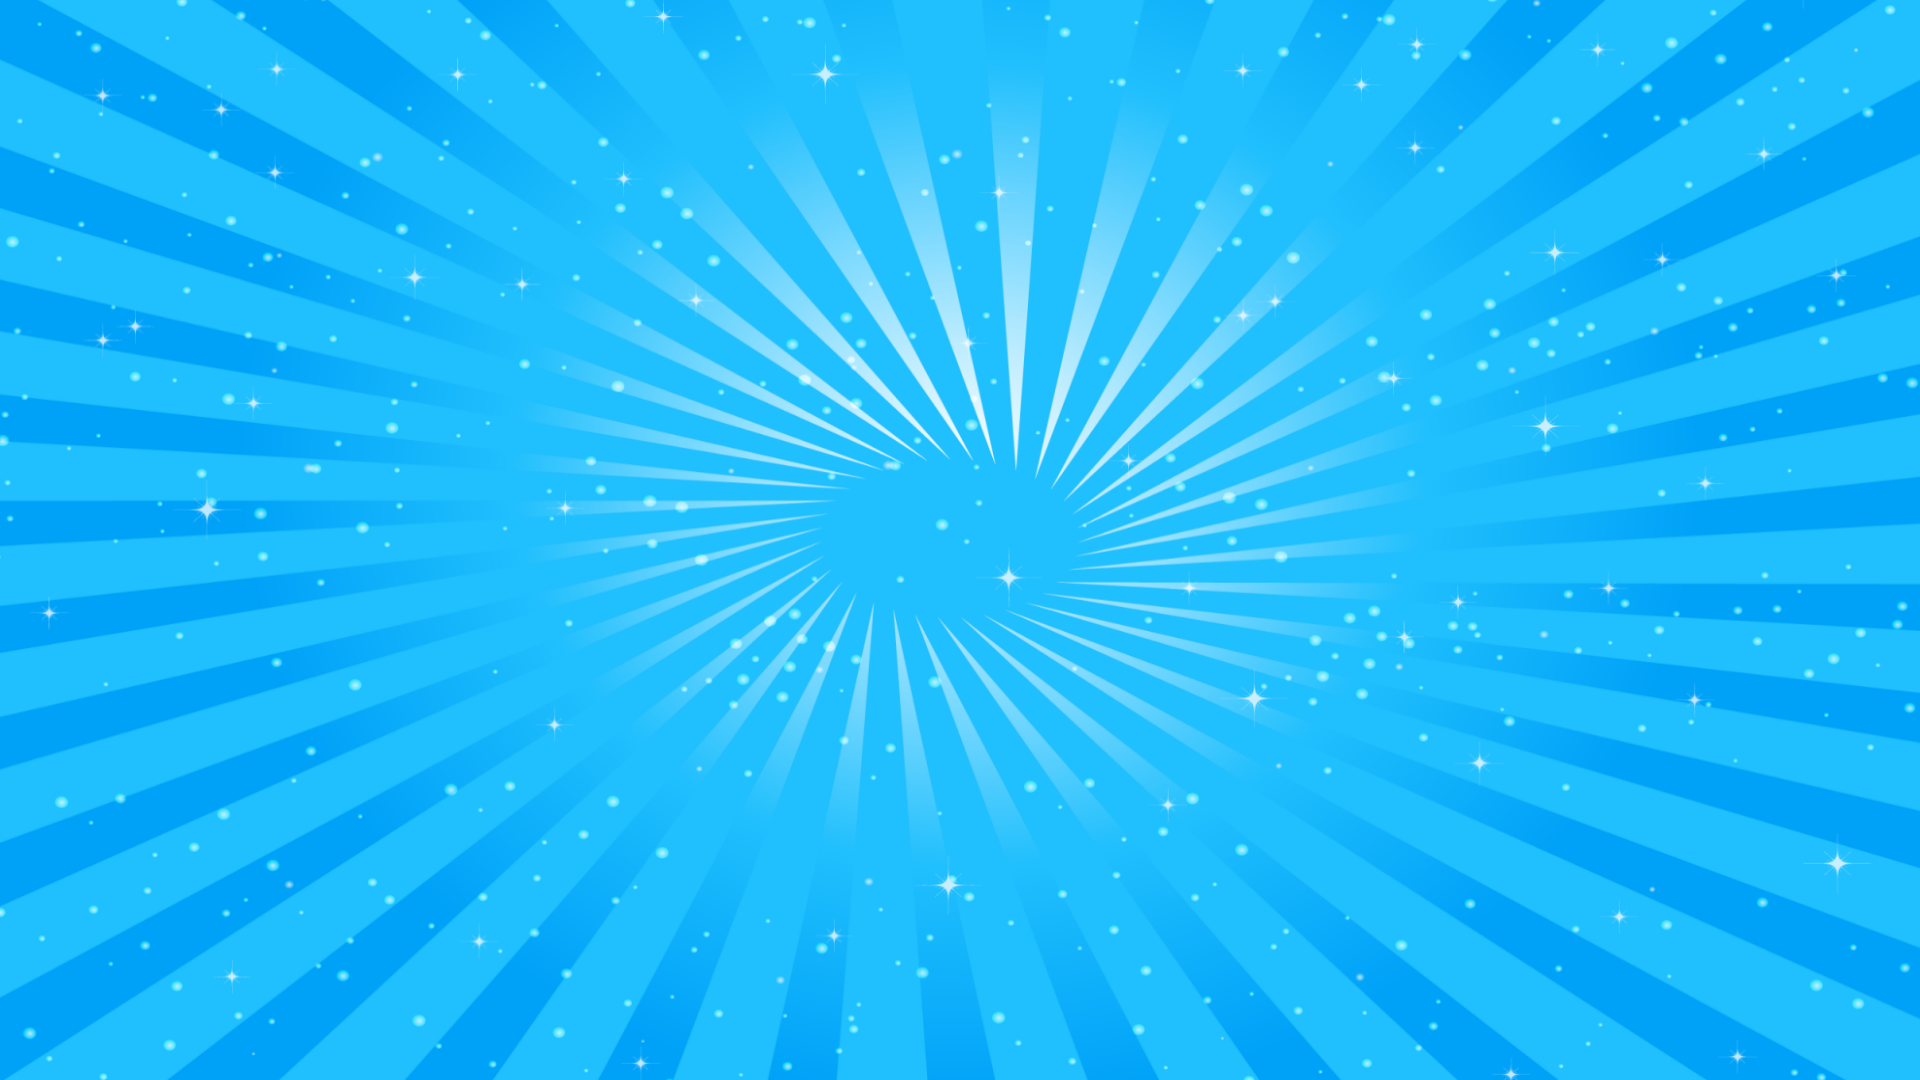
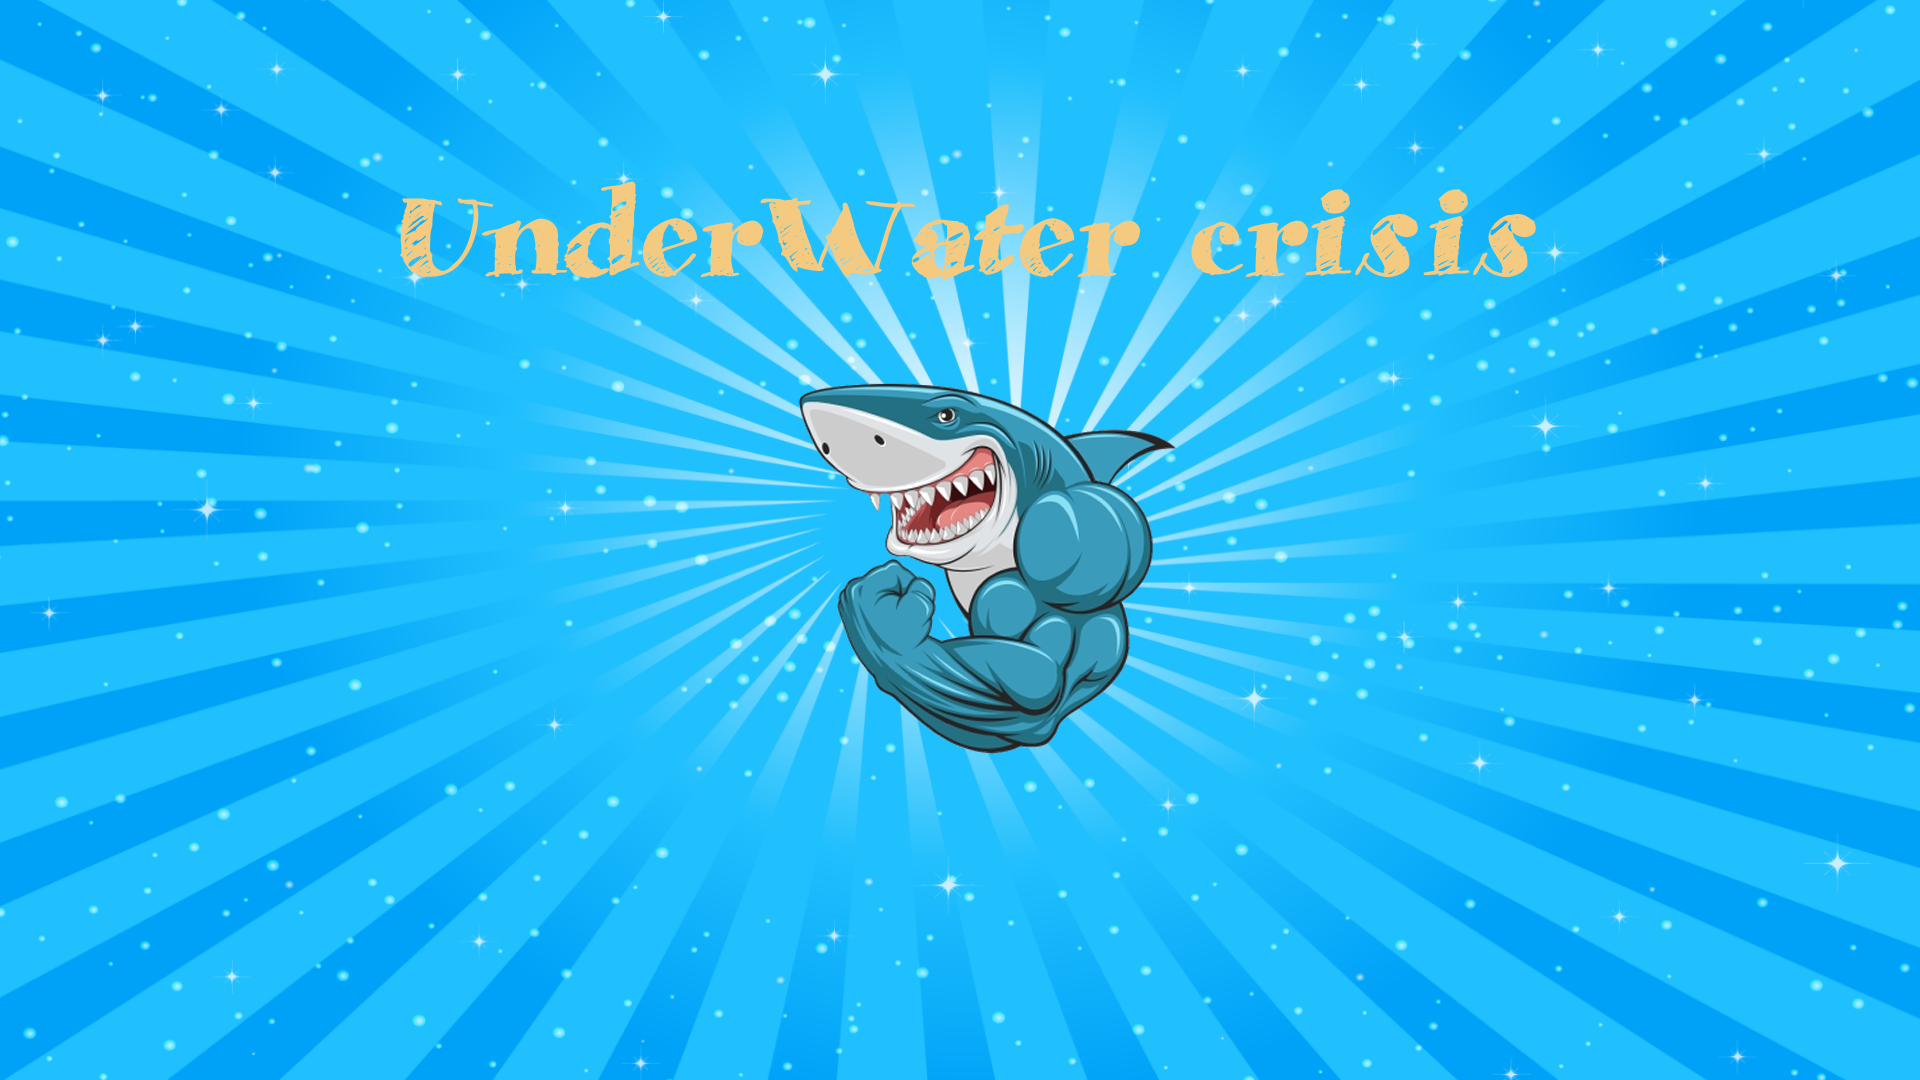
update

Changed region(s): [[0.4062, 0.3361, 0.625, 0.7028], [0.1875, 0.1528, 0.8125, 0.275]]

diff --git a/js/game.js b/js/game.js
@@ -2,7 +2,7 @@ import Player from './player.js';
 
 export default class Game extends Phaser.Scene {
   constructor() {
-    super({ key: 'main' });
+    super({ key: 'playgame'});
   }
   preload() {  
   	this.load.image('background', 'assets/images/background.png');
@@ -12,7 +12,7 @@ export default class Game extends Phaser.Scene {
     this.load.image('pause', 'assets/images/btnpause-sheet0.png');
     this.load.image('sound', 'assets/images/btnsound-sheet1.png');
     //this.load.audio('audio-bounce', ['audio/bounce.ogg', 'audio/bounce.mp3', 'audio/bounce.m4a']);
-    this.load.spritesheet('player', 'assets/images/shark-sheet0.png', {frameWidth: 128,frameHeight: 103});
+    this.load.spritesheet('player', 'assets/images/shark-sheet0.png', {frameWidth: 128,frameHeight: 101});
   }
 
   create() {
@@ -23,23 +23,29 @@ export default class Game extends Phaser.Scene {
     this.add.image(1600, 100, 'pause');
     this.add.image(1800, 100, 'sound');
 
-    //this.player = this.add.sprite(300, 640, 'player');
     this.anims.create({
       key: 'player_normal',
       frames: this.anims.generateFrameNumbers('player', { start: 0, end: 6 }),
       frameRate: 10,
       repeat: -1
     });
-    
+    this.anims.create({
+      key: 'player_attack',
+      frames: this.anims.generateFrameNumbers('player', { start: 7, end: 11 }),
+      frameRate: 10,
+      repeat: -1
+    });
+    this.anims.create({
+      key: 'player_die',
+      frames: this.anims.generateFrameNumbers('player', { start: 12, end: 13 }),
+      frameRate: 10,
+      repeat: -1
+    });
+
     this.player = new Player(this,300, 640);
   }
 
   update(time, delta) {    
-    /**
-     * this.input.keyboard.on("keydown_D", () => {
-      this.player.x += 100;
-      this.anims.play('player_normal',true);
-    });
-     */
+    
   }
 }

diff --git a/js/Menu.js b/js/Menu.js
@@ -1,0 +1,42 @@
+import Game from './Game.js';
+
+export default class Menu extends Phaser.Scene {
+	constructor() {
+	    super({ key: 'menu' });
+	}
+	preload() {  
+	  	this.load.image('preloaderBackground', 'assets/images/loadingbackground-sheet0.png');
+	    this.load.spritesheet('button', 'assets/images/button_sprite_sheet.png',{frameWidth: 265,frameHeight: 98});
+	}
+
+	create() {
+	  	this.add.image(960, 540, 'preloaderBackground');
+	    //this.playButton = this.add.(320, 520, 'button', this.startGame(), this, 2, 1, 0);
+	    this.playButton = this.add.sprite(370, 620, 'button').setInteractive();
+
+	    this.anims.create({
+	      key: 'button1',
+	      frames: this.anims.generateFrameNumbers('button', { start: 0, end: 1}),
+	      frameRate: 10,
+	      repeat: 0
+	    });
+	    this.anims.create({
+	      key: 'button2',
+	      frames: this.anims.generateFrameNumbers('button', { start: 1, end: 2}),
+	      frameRate: 10,
+	      repeat: 0
+	    });
+	}
+
+	update(titleme, delta) {
+	    this.playButton.on('pointerover', function(){
+	    	this.play('button1');
+	    });
+	    this.playButton.on('pointerout', function(){
+	    	this.play('button2');
+	    });
+	    this.playButton.on('pointerdown', function(){
+	    	this.gamescene.start('playgame');
+	    });
+	}
+}

diff --git a/index.html b/index.html
@@ -7,13 +7,14 @@
     <meta name="viewport" content="width=device-width, initial-scale=2.0">
     <link rel="stylesheet" href="js/game.css">
     <script src="js/phaser.min.js"></script>
-    <title>¡Juego con Phaser!</title>
+    <title>Underwater crisis</title>
 </head>
 
 <body>
     <div id = "container">
 		<script type="module">
-        import Game from './js/game.js';
+        import Game from './js/Game.js';
+        import Menu from './js/Menu.js';
 
         var config = {
             type: Phaser.AUTO,
@@ -27,7 +28,7 @@
                 mode: Phaser.Scale.FIT,
                 autoCenter: Phaser.Scale.CENTER_BOTH
             },
-            scene: [ Game ],
+            scene: [ Menu, Game],
             physics: { 
                 default: 'arcade', 
                 arcade: { 
@@ -38,7 +39,7 @@
                 }
             }
         };
-        new Phaser.Game(config);
+        var game = new Phaser.Game(config);
     </script>
     </div>
 

diff --git a/js/player.js b/js/player.js
@@ -71,5 +71,11 @@ export default class Player extends Phaser.GameObjects.Sprite {
     this.scene.input.keyboard.on("keyup_S", () => {
       this.body.setVelocity(0,0);
     });
+    this.scene.input.keyboard.on("keydown_Z", () => {
+      this.play('player_attack',true);
+    });
+    this.scene.input.keyboard.on("keyup_Z", () => {
+      this.play('player_normal',true);
+    });
   }
 }
